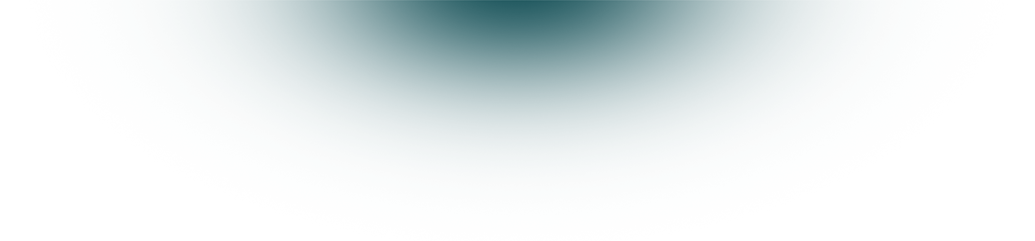
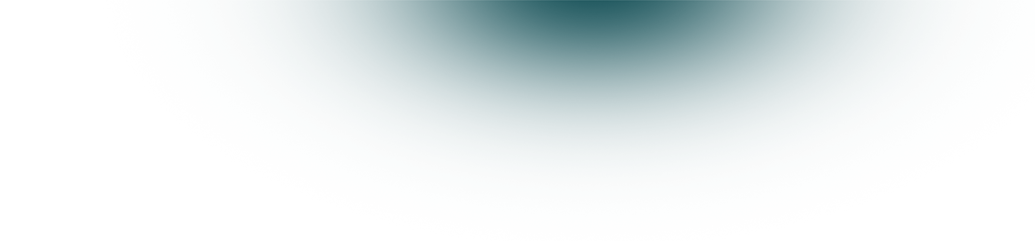
highlight_big changed position

Changed region(s): [[0.2164, 0.0, 0.5256, 0.3776], [0.5565, 0.0, 0.8348, 0.3776]]

diff --git a/assets/common/css/index.css b/assets/common/css/index.css
@@ -171,7 +171,7 @@ h2 span {
 .line-top-banner {
 	margin: 0px;
 	border: 0px;
-	height: 3px;
+	height: 1px;
 	background-image: -webkit-linear-gradient(left, rgba(0,0,0,0), rgba(28,51,65,1), rgba(0,0,0,0));
 	background-image: -moz-linear-gradient(left, rgba(0,0,0,0), rgba(0,0,0,0.75), rgba(0,0,0,0));
 	background-image: -ms-linear-gradient(left, rgba(0,0,0,0), rgba(0,0,0,0.75), rgba(0,0,0,0));
